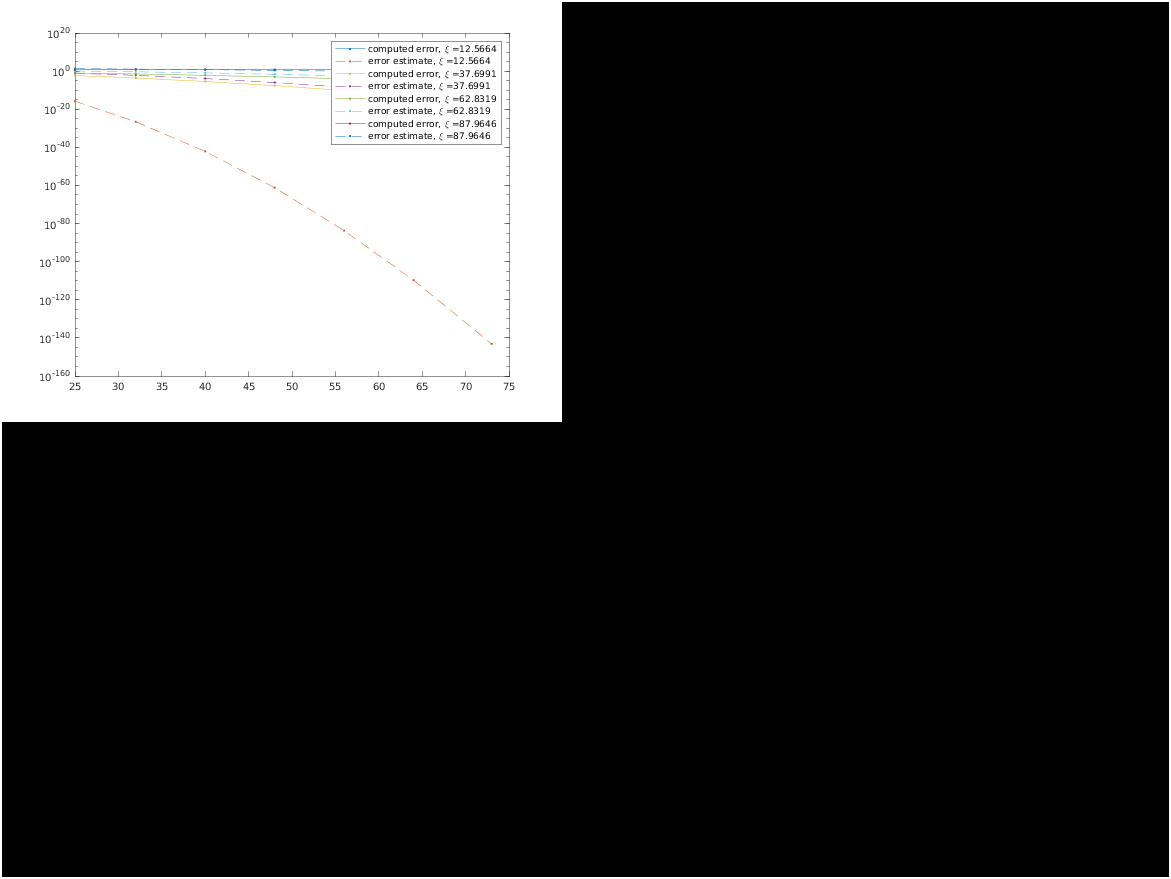
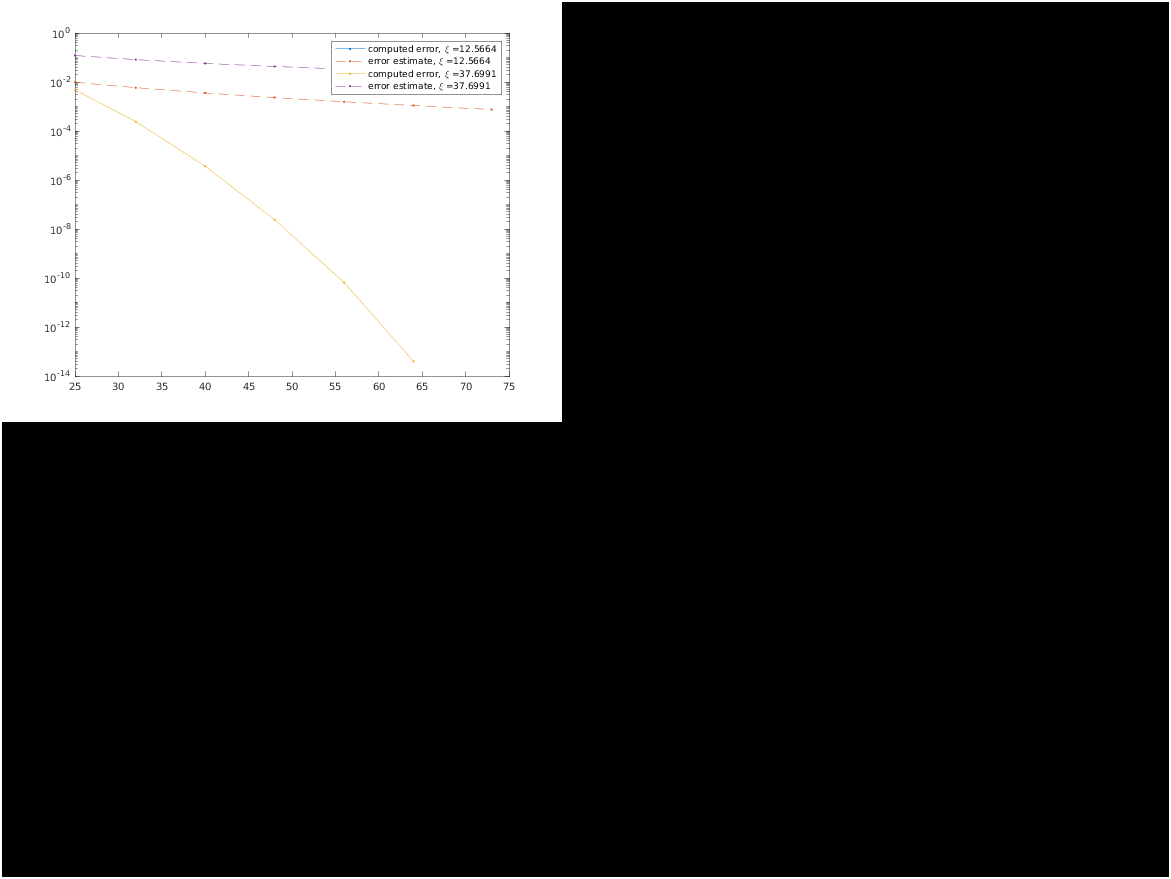
new estimate

diff --git a/SE_Stokes_run/SE3P_Stokes/param_select.m b/SE_Stokes_run/SE3P_Stokes/param_select.m
@@ -27,7 +27,7 @@ opt.betaP = 2.5;
 ED_opt.layers = (opt.M(1)-1)/2;
 ED_opt.box = box;
 refv = [];
-xx = (4:8:28)*pi;
+xx = (4:8:12)*pi;
 
     %% Direct solution
     if(exist('refval.mat'))
@@ -59,6 +59,7 @@ xx = (4:8:28)*pi;
 
     F = sum(norm(f).^2);
     est = @(M,xi,L,f) 2*L^2*sqrt(f)*(2*sqrt(pi)*M/2 + 3*xi*L)*exp(-((M/2)*pi/(xi*L))^2)/sqrt(pi);
+    est = @(M,xi,L,f) sqrt(F)*xi^3*L^2/(pi^4*(M/2)^(3/2))*exp(-(pi*(M/2)/(xi*L)^2));
     MM = [50,64,80,96,112,128,146];
 str = {};
 
